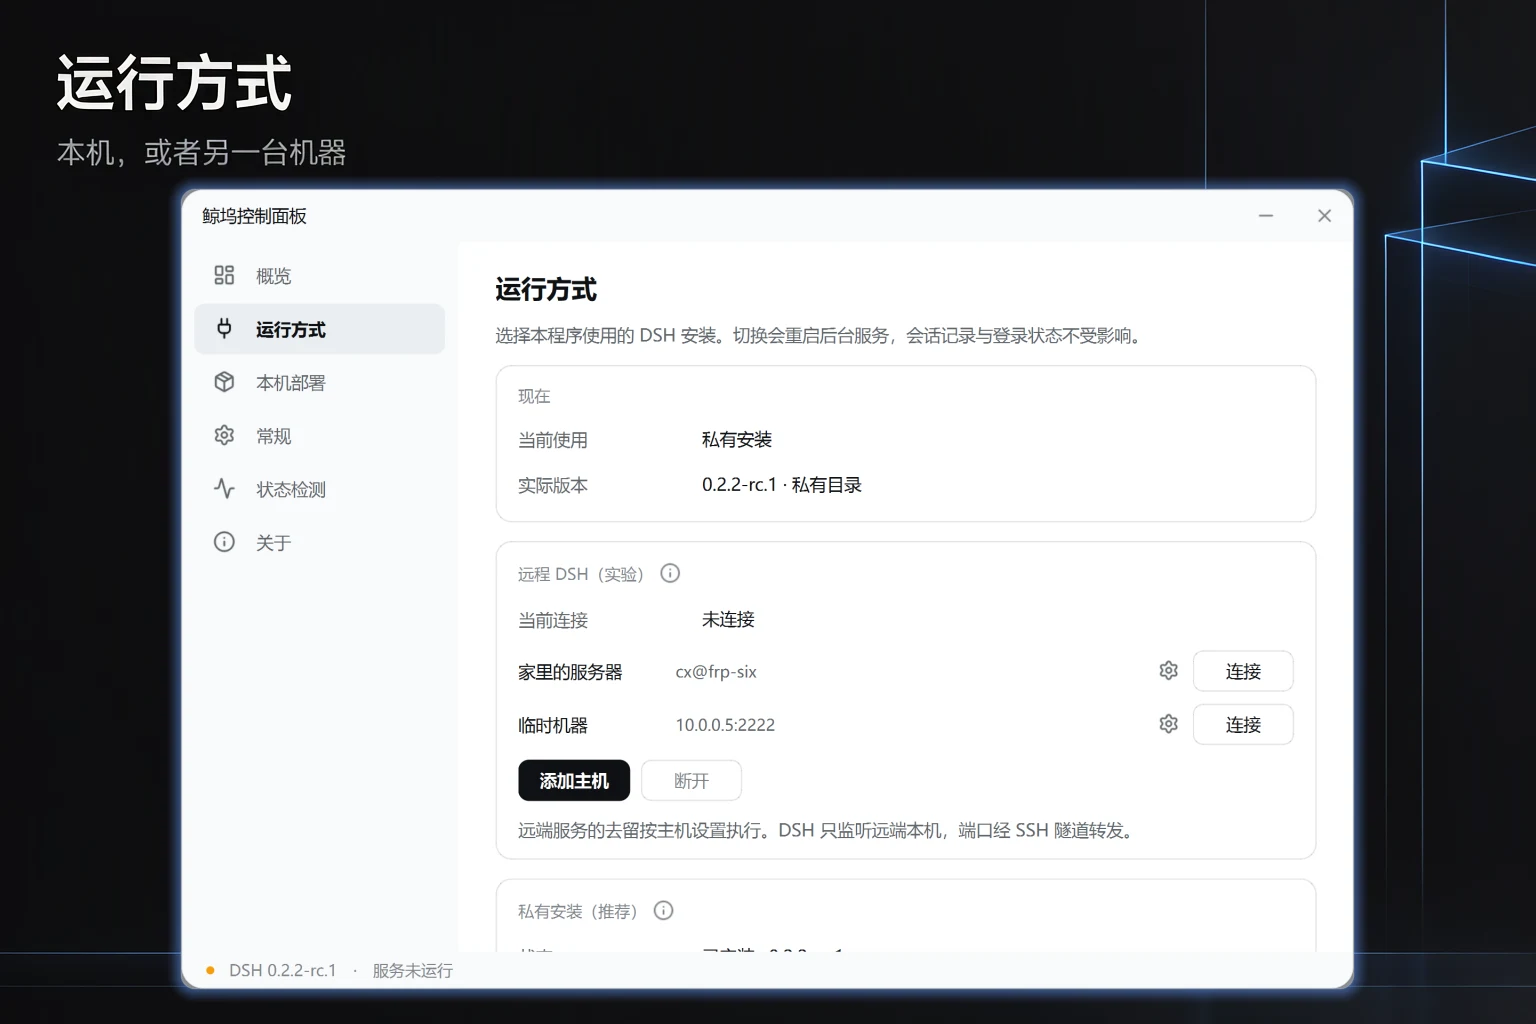
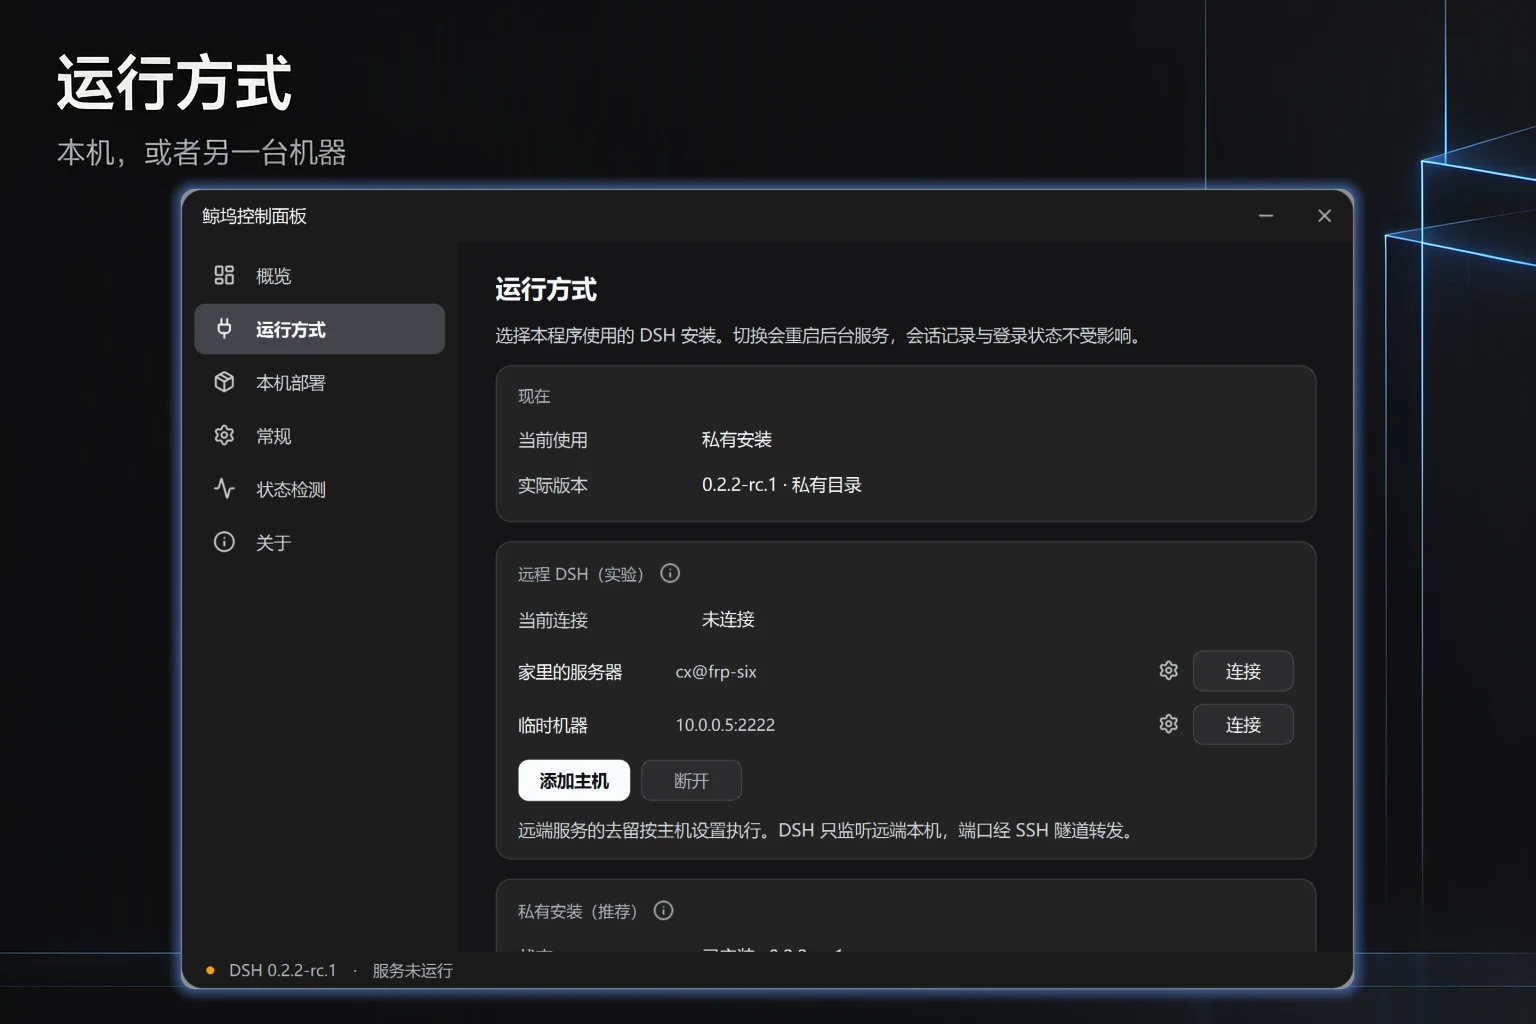
README 出明暗两套配图，随系统主题自动切换
老大指出我漏了一件事：面板本来就有明暗两套主题，截图也一直都有（build/panel-*-dark.png），所以'深色背景配浅色截图'本身就是配错的。现在深色版配深色主题面板，浅色版配浅色主题面板。

浅色背景按官方浅色令牌生成：底 #ffffff、强调色 #4176e6，明丽通透。合成时**不用灰影**——灰影在近白底上显脏，且不属于同一色系；改用官方蓝 #4176e6 的淡光晕，还能和背景边缘那几条蓝线呼应（这条是老大直接指出的，我原来的做法确实难看）。

图片用 <picture> + prefers-color-scheme 自动切换，和 dsh-go 一致。

踩坑：MOSS 生成中文标题时简体/繁体不稳定。浅色海报连续两次输出繁体「鯨塢」，第三次在提示词里拆解字形（鲸=鱼+京、坞=土+乌）并明说'不是繁体'才拿到简体。深色那张一次就对，属于运气。⇒ 涉及产品名的生成图，必须逐次核对字形。

图片全部转 webp：14 张共约 400 KB（原来单张 PNG 就 300~500 KB）。背景素材保留未引用的 6 张，换截图时可复用，不必再花三分钟重新生成。

diff --git a/tools/compose_card.py b/tools/compose_card.py
@@ -29,7 +29,7 @@ _APP = None
 
 def compose(bg_path: str, shot_path: str, out_path: str,
             top_ratio: float = 0.185, side_ratio: float = 0.075,
-            bottom_ratio: float = 0.035) -> None:
+            bottom_ratio: float = 0.035, light: bool = False) -> None:
     global _APP
     if QGuiApplication.instance() is None:
         _APP = QGuiApplication(sys.argv[:1])
@@ -60,12 +60,25 @@ def compose(bg_path: str, shot_path: str, out_path: str,
     p.setRenderHint(QPainter.RenderHint.SmoothPixmapTransform, True)
 
     # 一圈柔和的外发光，让浅色窗口从深色背景里"浮"起来
-    # 发光弱一点：太亮会像霓虹灯，只是让浅色窗口和深色背景有过渡就够了
-    for i in range(14, 0, -1):
-        alpha = int(4 + (14 - i) * 1)
-        p.setPen(Qt.PenStyle.NoPen)
-        p.setBrush(QColor(103, 158, 254, alpha))
-        p.drawRoundedRect(QRectF(x - i, y - i, sw + i * 2, sh + i * 2), 14 + i, 14 + i)
+    # 两种底子需要不同的"浮起"手段：
+    #   · 深色底：浅色窗口本身对比足够，一层极淡的蓝光就够，且呼应强调色；
+    #   · 浅色底：白窗口在白背景上没有边界，必须靠**灰色投影**拉开层次，
+    #     否则整张图会糊成一片（这是深色版的做法直接套过来最容易翻车的地方）。
+    p.setPen(Qt.PenStyle.NoPen)
+    if light:
+        # 用官方浅色主题的强调色 #4176e6 做一层很淡的光晕，而不是灰影。
+        # 灰影在近白背景上会显得脏，而且和整套配色不属于同一个色系；
+        # 淡蓝既能把白窗口的边界托出来，又和背景边缘的那几条蓝线呼应。
+        for i in range(16, 0, -1):
+            alpha = int(2 + (16 - i) * 1)
+            p.setBrush(QColor(65, 118, 230, alpha))
+            p.drawRoundedRect(QRectF(x - i, y - i, sw + i * 2, sh + i * 2),
+                              14 + i, 14 + i)
+    else:
+        for i in range(14, 0, -1):
+            alpha = int(4 + (14 - i) * 1)
+            p.setBrush(QColor(103, 158, 254, alpha))
+            p.drawRoundedRect(QRectF(x - i, y - i, sw + i * 2, sh + i * 2), 14 + i, 14 + i)
 
     path = QPainterPath()
     path.addRoundedRect(QRectF(x, y, sw, sh), 14, 14)
@@ -73,7 +86,7 @@ def compose(bg_path: str, shot_path: str, out_path: str,
     p.setClipPath(path)
     p.drawImage(x, y, shot)
     p.restore()
-    p.setPen(QPen(QColor(255, 255, 255, 38), 1))
+    p.setPen(QPen(QColor(15, 23, 42, 46) if light else QColor(255, 255, 255, 38), 1))
     p.setBrush(Qt.BrushStyle.NoBrush)
     p.drawRoundedRect(QRectF(x, y, sw, sh), 14, 14)
 
@@ -85,5 +98,5 @@ def compose(bg_path: str, shot_path: str, out_path: str,
 if __name__ == "__main__":
     a = sys.argv[1:]
     if len(a) < 3:
-        raise SystemExit("用法：compose_card.py <bg.png> <shot.png> <out.png>")
-    compose(a[0], a[1], a[2])
+        raise SystemExit("用法：compose_card.py <bg> <shot> <out> [light]")
+    compose(a[0], a[1], a[2], light=(len(a) > 3 and a[3] == "light"))

diff --git a/README.md b/README.md
@@ -1,5 +1,8 @@
 <p align="center">
-  <img src="docs/images/hero-banner.webp" alt="鲸坞：深色背景上的产品名与一句话定位——DeepSeek Harness 的桌面客户端" width="100%">
+  <picture>
+    <source media="(prefers-color-scheme: dark)" srcset="docs/images/hero-banner.webp">
+    <img src="docs/images/hero-banner-light.webp" alt="鲸坞：DeepSeek Harness 的桌面客户端" width="100%">
+  </picture>
 </p>
 
 <p align="center">
@@ -109,13 +112,16 @@ GitHub Actions 会运行自测、构建 exe、创建 Release。工作流校验 t
 
 ## 界面
 
-截图都是真实窗口，不是效果图。背景与标题由本地模型生成，配色取自 DSH 官方的设计令牌
-（深色底 `#151517`、强调色 `#679efe`）。
+截图都是真实窗口，不是效果图。背景与标题由本地模型生成，配色取自 DSH 官方的设计令牌——
+浅色底 `#ffffff` / `#4176e6`，深色底 `#151517` / `#679efe`。页面随系统明暗自动切换配图。
 
 ### 主界面
 
 <p align="center">
-  <img src="docs/images/card-main.webp" alt="主窗口：左侧图标栏，中间是「探索未至之境」与输入框，标题栏是本程序的" width="100%">
+  <picture>
+    <source media="(prefers-color-scheme: dark)" srcset="docs/images/card-main.webp">
+    <img src="docs/images/card-main-light.webp" alt="主窗口：左侧图标栏，中间是「探索未至之境」与输入框" width="100%">
+  </picture>
 </p>
 
 一个原生窗口，里面就是完整的 DSH。没有地址栏、没有标签页，也不需要先开浏览器。
@@ -123,7 +129,10 @@ GitHub Actions 会运行自测、构建 exe、创建 Release。工作流校验 t
 ### 控制面板 · 概览
 
 <p align="center">
-  <img src="docs/images/card-overview.webp" alt="控制面板概览页：版本与来源、后台服务状态、按进程树归拢的内存占用" width="100%">
+  <picture>
+    <source media="(prefers-color-scheme: dark)" srcset="docs/images/card-overview.webp">
+    <img src="docs/images/card-overview-light.webp" alt="控制面板概览页：版本与来源、后台服务状态、按进程树归拢的内存占用" width="100%">
+  </picture>
 </p>
 
 三块内容按"最常问的问题"排：
@@ -138,7 +147,10 @@ GitHub Actions 会运行自测、构建 exe、创建 Release。工作流校验 t
 ### 控制面板 · 运行方式
 
 <p align="center">
-  <img src="docs/images/card-runmode.webp" alt="控制面板运行方式页：私有安装与命令行共用两种模式，以及远程主机列表" width="100%">
+  <picture>
+    <source media="(prefers-color-scheme: dark)" srcset="docs/images/card-runmode.webp">
+    <img src="docs/images/card-runmode-light.webp" alt="控制面板运行方式页：私有安装与命令行共用两种模式，以及远程主机列表" width="100%">
+  </picture>
 </p>
 
 - **私有安装** 与命令行那份互不影响：升级只动它，不会因为终端里的 `npm` 操作变成
